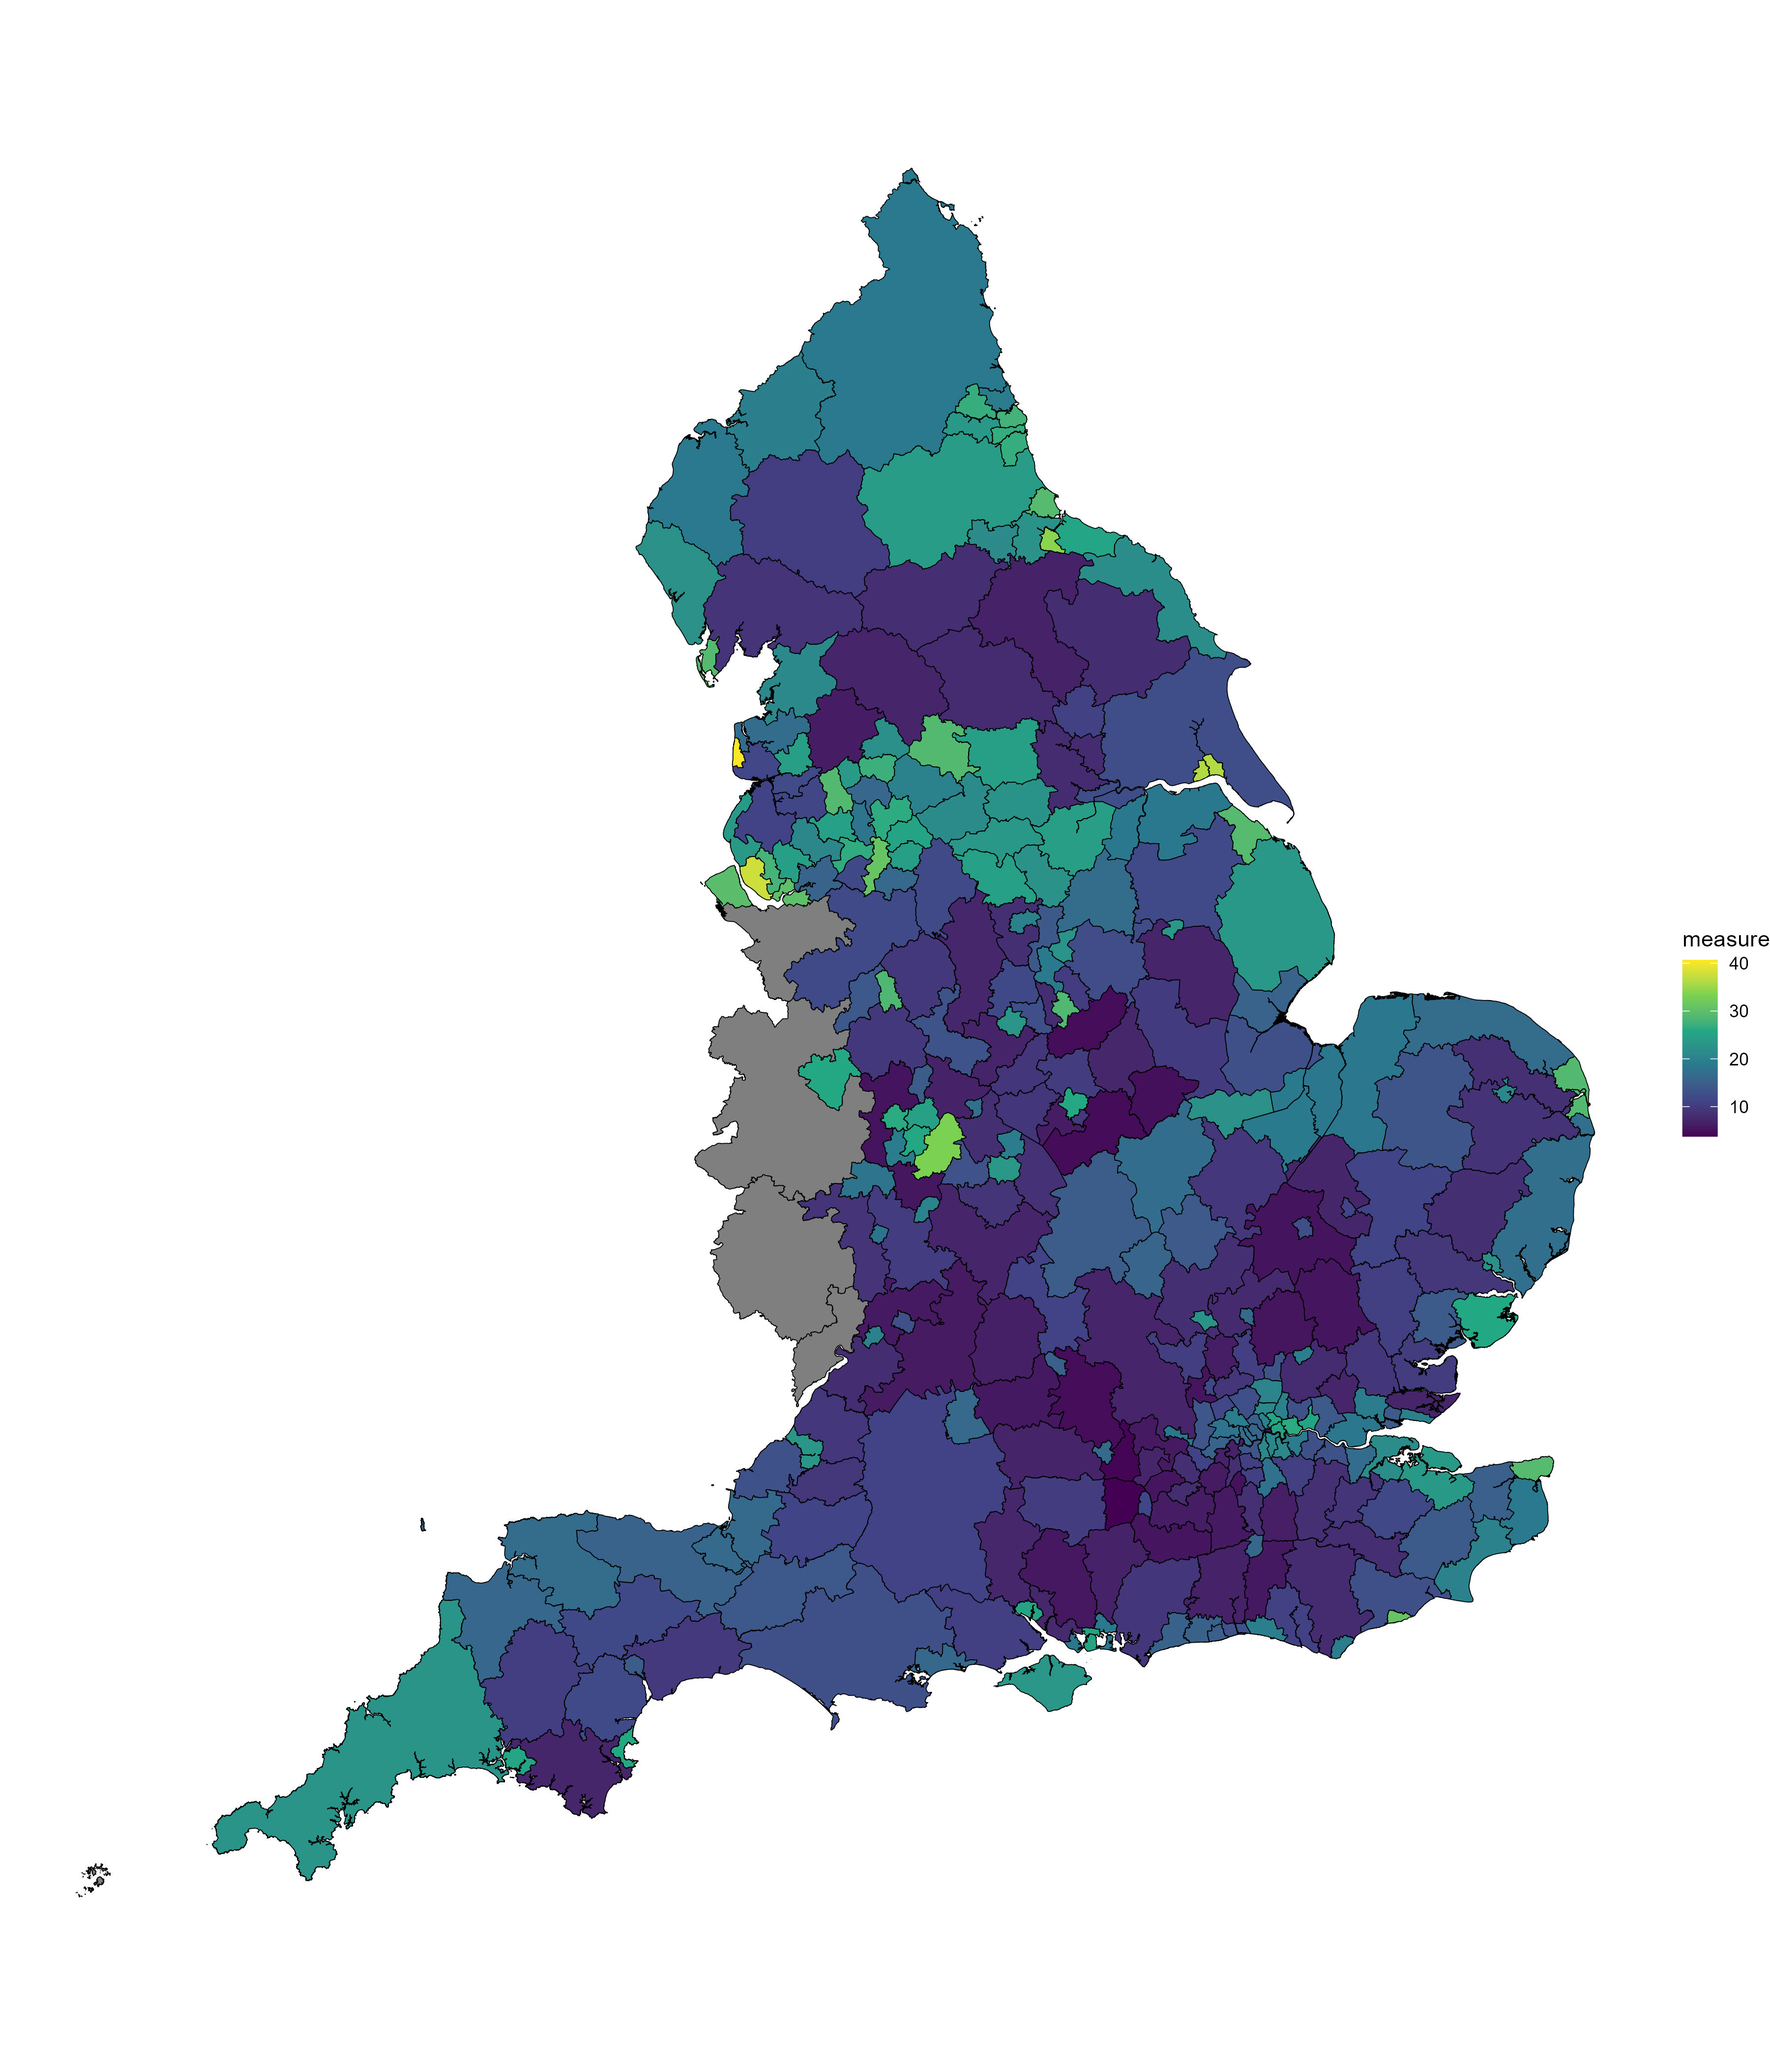
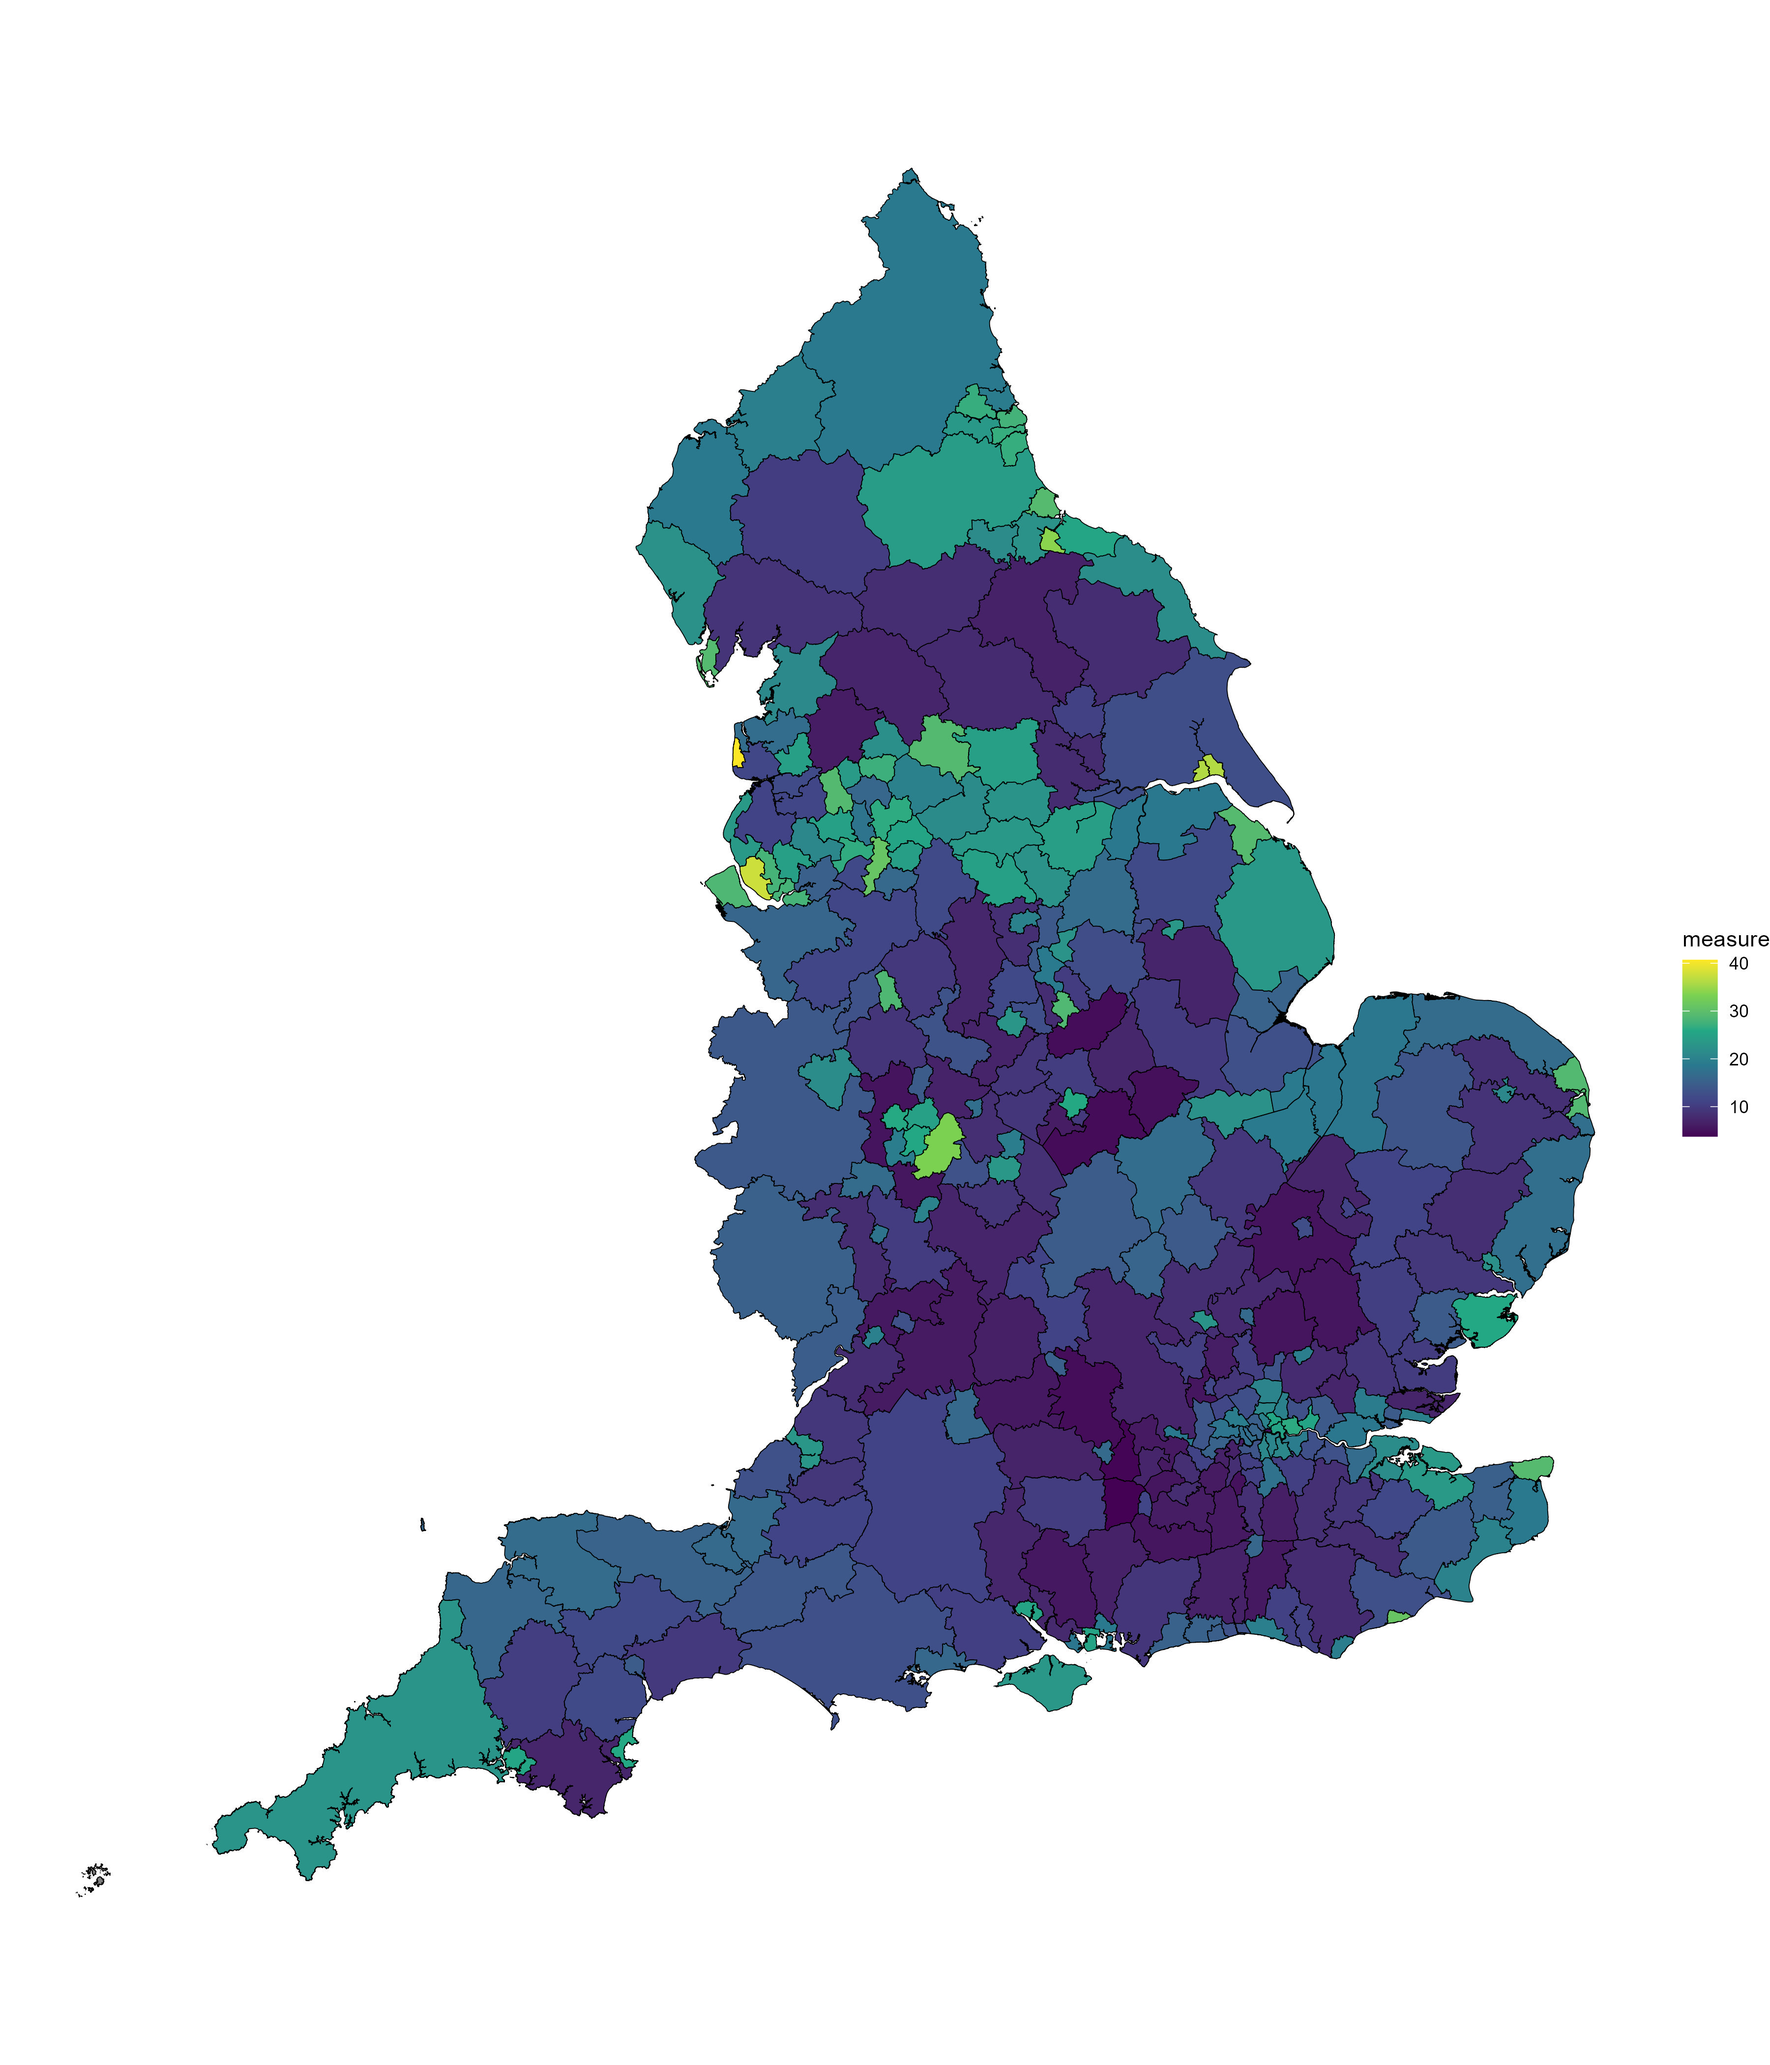
enforced argument options, and other recommended fixes

Changed region(s): [[0.4044, 0.4367, 0.4978, 0.6862]]

diff --git a/2 - Templates/Converting-postcodes-to-points-and-areas.md b/2 - Templates/Converting-postcodes-to-points-and-areas.md
@@ -107,7 +107,8 @@ measure_icb <- shape_convert(
   old_shape = measure_latlong_match, 
   new_shape = shape_icb, 
   weight = "weighting",
-  type = "mean"
+  type = "mean",
+  use_missing = TRUE
   )
 ```
 
@@ -120,7 +121,7 @@ function.
 ``` r
 basic_map_icb <- measure_icb %>%
   filter(str_detect(area_code, "^E")) %>% # England only
-  mutate(measure = ifelse(count_overlap >= 5, measure, NA)) %>% # at least 5 points
+  mutate(measure = ifelse(count_overlap >= 3, measure, NA)) %>% # at least 3 points
   ggplot() +
   geom_sf(
     aes(fill = measure),

diff --git a/2 - Templates/Converting-from-one-area-to-another.md b/2 - Templates/Converting-from-one-area-to-another.md
@@ -80,7 +80,8 @@ measure_lad <- shape_convert(
   old_shape = measure_lsoa_shape, 
   new_shape = shape_lad,
   weight = "weighting and overlap",
-  type = "mean"
+  type = "mean",
+  use_missing = TRUE
   )
 ```
 
